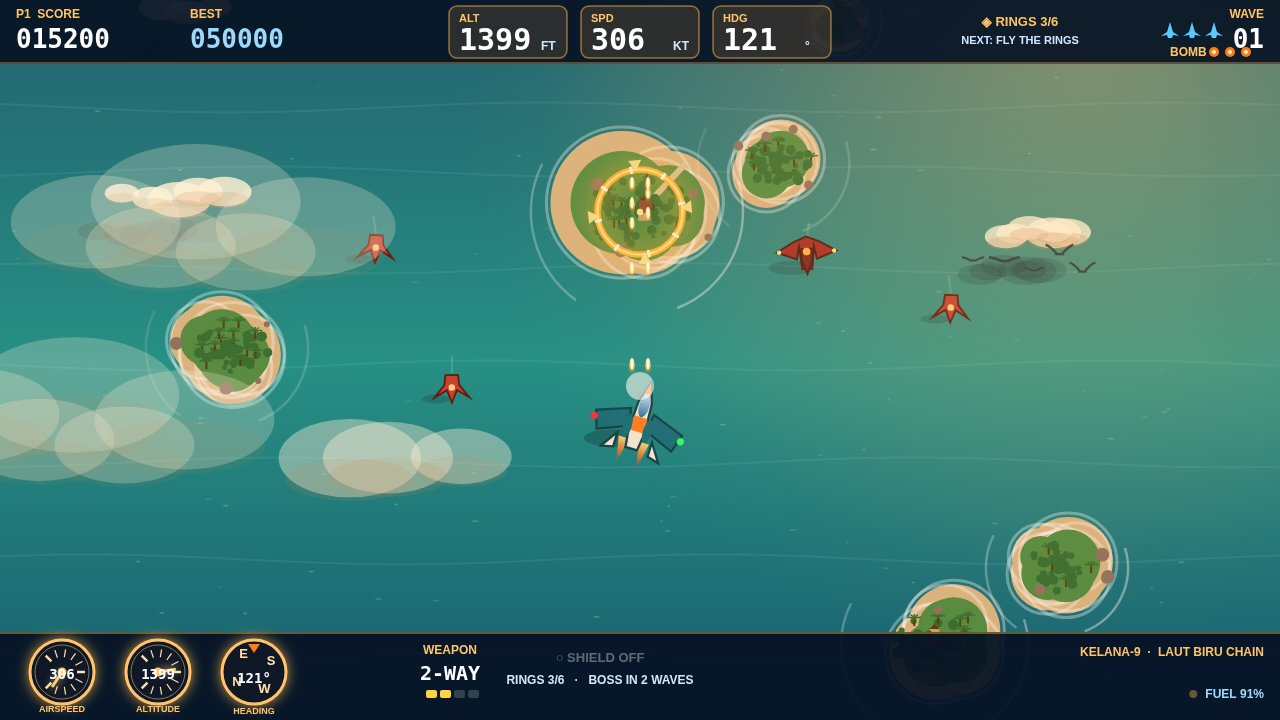
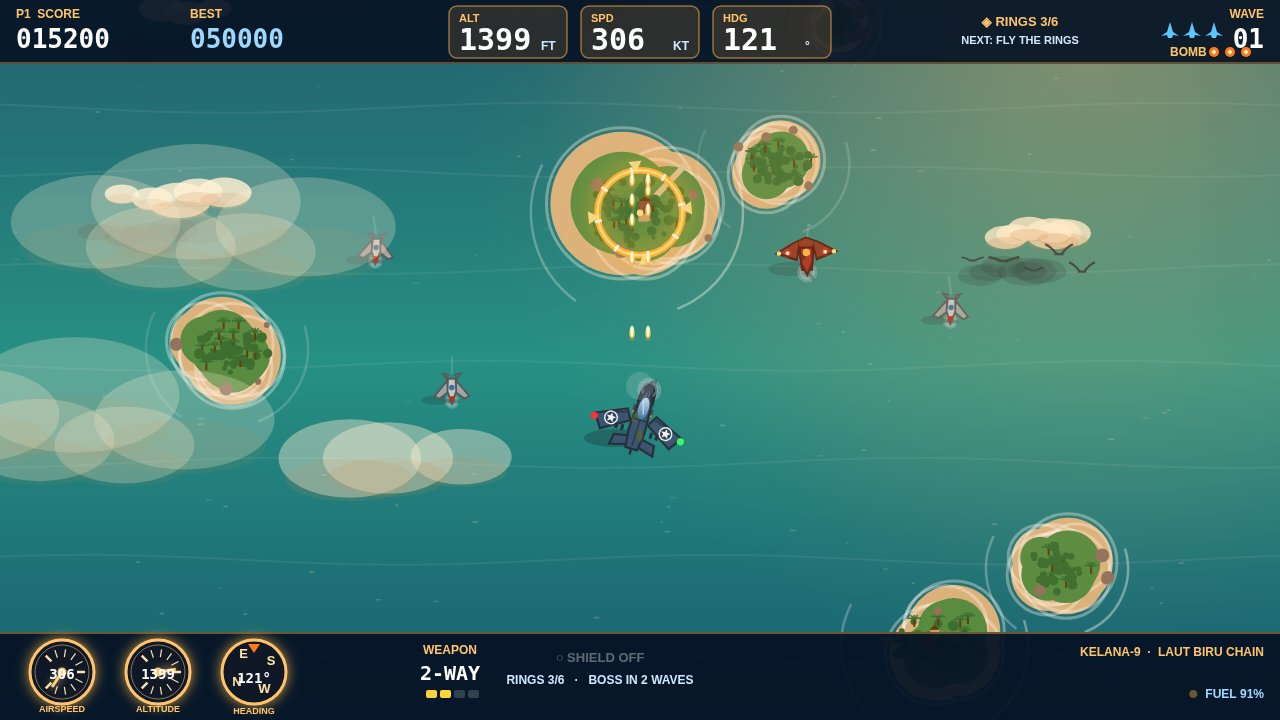
sprite rework: detailed WWII prop aircraft (user revision)

diff --git a/game/src/sprites.js b/game/src/sprites.js
@@ -1,5 +1,8 @@
 // sprites.js — every sprite is drawn in code with canvas vector paths.
-// 100% original art: no copied pixels, no image files. All craft point UP (-y).
+// 100% original art: no copied pixels, no image files. All craft point UP (-y),
+// except the diving scout/fighter/weaver, which point DOWN (+y) toward the player.
+// WWII propeller-fighter style: camo paint, roundels, spinning prop blur discs,
+// panel lines, engine detail. No borrowed text, logos, or artwork.
 import { TAU } from './rng.js';
 
 function poly(ctx, pts, fill, stroke, lw = 1.5) {
@@ -11,7 +14,55 @@ function poly(ctx, pts, fill, stroke, lw = 1.5) {
   if (stroke) { ctx.strokeStyle = stroke; ctx.lineWidth = lw; ctx.stroke(); }
 }
 
-// ---- Player: the Kelana-9 interceptor (teal + cream + orange, twin engines).
+// 5-point star, used inside allied roundels.
+function star5(ctx, x, y, r, fill) {
+  ctx.beginPath();
+  for (let i = 0; i < 10; i++) {
+    const rr = i % 2 === 0 ? r : r * 0.45;
+    const a = -Math.PI / 2 + (i / 10) * TAU;
+    const px = x + Math.cos(a) * rr, py = y + Math.sin(a) * rr;
+    if (i === 0) ctx.moveTo(px, py); else ctx.lineTo(px, py);
+  }
+  ctx.closePath();
+  ctx.fillStyle = fill; ctx.fill();
+}
+
+// Allied roundel: dark blue disc, thin white ring, white star.
+function starRoundel(ctx, x, y, r) {
+  ctx.fillStyle = '#1d3a5f'; ctx.beginPath(); ctx.arc(x, y, r, 0, TAU); ctx.fill();
+  ctx.strokeStyle = '#e8f0f8'; ctx.lineWidth = 1; ctx.beginPath(); ctx.arc(x, y, r, 0, TAU); ctx.stroke();
+  star5(ctx, x, y, r * 0.82, '#f4f8fc');
+}
+
+// Hostile roundel: red disc, cream centre.
+function redRoundel(ctx, x, y, r) {
+  ctx.fillStyle = '#b02a20'; ctx.beginPath(); ctx.arc(x, y, r, 0, TAU); ctx.fill();
+  ctx.fillStyle = '#f2e8d5'; ctx.beginPath(); ctx.arc(x, y, r * 0.45, 0, TAU); ctx.fill();
+}
+
+// Spinning propeller: translucent blur disc + two faint blades rotating with
+// t (deterministic — driven by game time, never wall-clock or Math.random).
+function propDisc(ctx, x, y, r, t, phase = 0) {
+  ctx.fillStyle = 'rgba(205,215,225,0.30)';
+  ctx.beginPath(); ctx.arc(x, y, r, 0, TAU); ctx.fill();
+  ctx.strokeStyle = 'rgba(235,242,248,0.28)';
+  ctx.lineWidth = 1.5;
+  ctx.beginPath(); ctx.arc(x, y, r * 0.62, 0, TAU); ctx.stroke();
+  const a = t * 16 + phase;
+  ctx.save(); ctx.translate(x, y); ctx.rotate(a);
+  ctx.fillStyle = 'rgba(40,48,58,0.35)';
+  ctx.beginPath(); ctx.ellipse(0, -r * 0.55, 1.6, r * 0.55, 0, 0, TAU); ctx.fill();
+  ctx.beginPath(); ctx.ellipse(0, r * 0.55, 1.6, r * 0.55, 0, 0, TAU); ctx.fill();
+  ctx.restore();
+  // Spinner hub.
+  ctx.fillStyle = '#2c343c'; ctx.beginPath(); ctx.arc(x, y, r * 0.22, 0, TAU); ctx.fill();
+}
+
+// ---- Player: the Kelana-9 interceptor, rebuilt as a WWII prop fighter ----
+// Sea-blue Corsair-style single-engine fighter: spinning prop, camo blotches,
+// star roundels, glass canopy, exhaust stubs. Solid parts keep the old extents
+// (x ±30, y -26..+24); only the translucent prop blur reaches ~3 units past
+// the old nose tip (visual only — collision radius and anchor unchanged).
 export function drawPlayer(ctx, x, y, bank, t, shield, thrust) {
   ctx.save();
   ctx.translate(x, y);
@@ -19,44 +70,56 @@ export function drawPlayer(ctx, x, y, bank, t, shield, thrust) {
   ctx.rotate(bank * 0.5 + Math.sin(t * 2.2) * 0.03);
   // 1.5x sprite: the player must read at thumbnail size.
   ctx.scale(1.5, 1.5);
-  // Engine flames.
-  if (thrust > 0.05) {
-    const f = 10 + Math.sin(t * 40) * 4 + thrust * 8;
-    for (const sx of [-7, 7]) {
-      const g = ctx.createLinearGradient(0, 14, 0, 14 + f + 8);
-      g.addColorStop(0, 'rgba(255,220,120,0.95)');
-      g.addColorStop(0.5, 'rgba(255,120,30,0.8)');
-      g.addColorStop(1, 'rgba(255,60,10,0)');
-      ctx.fillStyle = g;
-      ctx.beginPath();
-      ctx.moveTo(sx - 3.5, 14); ctx.lineTo(sx + 3.5, 14);
-      ctx.lineTo(sx, 14 + f + 8); ctx.closePath(); ctx.fill();
+  // Spinning prop blur at the nose (ahead of the spinner).
+  propDisc(ctx, 0, -21, 8, t, 0);
+  // Engine cowling: rounded nose cone + ring.
+  poly(ctx, [[0, -26], [4.5, -20], [5, -12], [-5, -12], [-4.5, -20]], '#22394f', '#12222f');
+  ctx.strokeStyle = '#4a6a86'; ctx.lineWidth = 1.2;
+  ctx.beginPath(); ctx.arc(0, -21, 4.6, 0, TAU); ctx.stroke();
+  // Exhaust stubs + flicker when the throttle is up.
+  for (const sx of [-5.5, 5.5]) {
+    ctx.fillStyle = '#3a4048'; ctx.fillRect(sx - 1.4, -9, 2.8, 4);
+    if (thrust > 0.05) {
+      const f = 2 + Math.sin(t * 34 + sx) * 1.2 + thrust * 2;
+      ctx.fillStyle = 'rgba(255,150,40,0.85)';
+      ctx.beginPath(); ctx.moveTo(sx - 1.6, -5); ctx.lineTo(sx + 1.6, -5); ctx.lineTo(sx, -5 + f); ctx.closePath(); ctx.fill();
     }
   }
-  // Swept main wings.
-  poly(ctx, [[-30, 2], [-8, -6], [-6, 6], [-26, 14]], '#0e6b7a', '#083d47');
-  poly(ctx, [[30, 2], [8, -6], [6, 6], [26, 14]], '#0e6b7a', '#083d47');
+  // Swept main wings (sea blue, darker leading edge, star roundels).
+  poly(ctx, [[-30, 4], [-10, -5], [-6, 2], [-24, 13]], '#2b4f74', '#16283c');
+  poly(ctx, [[30, 4], [10, -5], [6, 2], [24, 13]], '#2b4f74', '#16283c');
+  ctx.strokeStyle = '#1a3248'; ctx.lineWidth = 1;
+  ctx.beginPath(); ctx.moveTo(-28, 3); ctx.lineTo(-9, -3); ctx.stroke();
+  ctx.beginPath(); ctx.moveTo(28, 3); ctx.lineTo(9, -3); ctx.stroke();
+  starRoundel(ctx, -19, 4, 4.2);
+  starRoundel(ctx, 19, 4, 4.2);
   // Wingtip lights.
   ctx.fillStyle = '#ff2a2a'; ctx.beginPath(); ctx.arc(-30, 6, 2.4, 0, TAU); ctx.fill();
   ctx.fillStyle = '#2aff66'; ctx.beginPath(); ctx.arc(30, 6, 2.4, 0, TAU); ctx.fill();
-  // Tail fins.
-  poly(ctx, [[-12, 12], [-20, 24], [-12, 22]], '#f2e8d5', '#083d47');
-  poly(ctx, [[12, 12], [20, 24], [12, 22]], '#f2e8d5', '#083d47');
-  // Fuselage.
-  poly(ctx, [[0, -26], [4.5, -12], [5.5, 8], [4, 20], [-4, 20], [-5.5, 8], [-4.5, -12]], '#f2e8d5', '#083d47');
-  // Orange cheatline.
-  poly(ctx, [[-4.6, -2], [4.6, -2], [5, 8], [-5, 8]], '#ff7b1c');
-  // Canopy (glowing).
-  const cg = ctx.createLinearGradient(0, -18, 0, -2);
+  // Wing guns (small bumps under the wings).
+  for (const sx of [-14, -10, 10, 14]) {
+    ctx.fillStyle = '#16283c'; ctx.fillRect(sx - 1, 6, 2, 4);
+  }
+  // Tail: horizontal stabilizers + edge-on vertical fin.
+  poly(ctx, [[-14, 14], [-4, 12], [-4, 18], [-15, 21]], '#2b4f74', '#16283c');
+  poly(ctx, [[14, 14], [4, 12], [4, 18], [15, 21]], '#2b4f74', '#16283c');
+  ctx.strokeStyle = '#16283c'; ctx.lineWidth = 1.6;
+  ctx.beginPath(); ctx.moveTo(0, 14); ctx.lineTo(0, 24); ctx.stroke();
+  // Fuselage: tapered sea-blue body with olive camo blotches + panel lines.
+  poly(ctx, [[0, -24], [4.5, -12], [5.5, 8], [4, 20], [-4, 20], [-5.5, 8], [-4.5, -12]], '#2b4f74', '#16283c');
+  ctx.fillStyle = 'rgba(74,90,58,0.85)';
+  ctx.beginPath(); ctx.ellipse(-2.5, -2, 2.4, 5, 0.4, 0, TAU); ctx.fill();
+  ctx.beginPath(); ctx.ellipse(2.8, 10, 2, 4, -0.3, 0, TAU); ctx.fill();
+  ctx.strokeStyle = 'rgba(22,40,60,0.7)'; ctx.lineWidth = 1;
+  ctx.beginPath(); ctx.moveTo(0, -22); ctx.lineTo(0, 18); ctx.stroke();
+  ctx.beginPath(); ctx.moveTo(-4.5, 0); ctx.lineTo(4.5, 0); ctx.stroke();
+  // Canopy (glowing glass).
+  const cg = ctx.createLinearGradient(0, -16, 0, 0);
   cg.addColorStop(0, '#bfe8ff'); cg.addColorStop(1, '#2a6ea8');
   ctx.fillStyle = cg;
-  ctx.beginPath(); ctx.ellipse(0, -10, 3.4, 8, 0, 0, TAU); ctx.fill();
-  // Nose tip.
-  poly(ctx, [[0, -26], [2.4, -18], [-2.4, -18]], '#ff7b1c');
-  // Twin engine pods.
-  ctx.fillStyle = '#0e6b7a';
-  ctx.beginPath(); ctx.ellipse(-7, 6, 3, 8, 0, 0, TAU); ctx.fill();
-  ctx.beginPath(); ctx.ellipse(7, 6, 3, 8, 0, 0, TAU); ctx.fill();
+  ctx.beginPath(); ctx.ellipse(0, -8, 3.4, 7.5, 0, 0, TAU); ctx.fill();
+  ctx.strokeStyle = 'rgba(255,255,255,0.5)'; ctx.lineWidth = 1;
+  ctx.beginPath(); ctx.moveTo(-1.5, -13); ctx.lineTo(1, -4); ctx.stroke();
   // Shield bubble.
   if (shield > 0) {
     ctx.strokeStyle = `rgba(90,200,255,${0.5 + 0.3 * Math.sin(t * 6)})`;
@@ -68,81 +131,180 @@ export function drawPlayer(ctx, x, y, bank, t, shield, thrust) {
   ctx.restore();
 }
 
-// ---- Enemies (all original designs, pointing DOWN +y). ----
+// ---- Enemies ----
+// Scout: slim silver-grey dart diving nose-DOWN (+y). Prop at the nose.
 export function drawScout(ctx, x, y, t) {
   ctx.save(); ctx.translate(x, y);
-  poly(ctx, [[0, 14], [4, 4], [14, 10], [6, 0], [5, -8], [-5, -8], [-6, 0], [-14, 10], [-4, 4]], '#c23b2e', '#5c130c');
-  ctx.fillStyle = '#ffd28a'; ctx.beginPath(); ctx.arc(0, 2, 2.6, 0, TAU); ctx.fill();
+  // Spinning prop at the nose (bottom).
+  propDisc(ctx, 0, 12, 6, t, 1.3);
+  // Swept wings.
+  poly(ctx, [[-14, 8], [-4, -4], [-2, 4], [-10, 10]], '#9aa4ab', '#4a545c');
+  poly(ctx, [[14, 8], [4, -4], [2, 4], [10, 10]], '#9aa4ab', '#4a545c');
+  // Slim fuselage, nose down.
+  poly(ctx, [[0, 14], [3.5, 4], [3, -6], [-3, -6], [-3.5, 4]], '#c3c9ce', '#4a545c');
+  // Red nose band + spinner.
+  poly(ctx, [[0, 14], [3, 8], [-3, 8]], '#b02a20');
+  // Canopy dot.
+  ctx.fillStyle = '#2a6ea8'; ctx.beginPath(); ctx.arc(0, 1, 2.2, 0, TAU); ctx.fill();
+  // Tail fins (top).
+  poly(ctx, [[-4, -6], [-7, -10], [-3, -9]], '#9aa4ab', '#4a545c');
+  poly(ctx, [[4, -6], [7, -10], [3, -9]], '#9aa4ab', '#4a545c');
   ctx.restore();
 }
+// Fighter: rust-red camo mid fighter diving nose-DOWN (+y).
 export function drawFighter(ctx, x, y, t) {
   ctx.save(); ctx.translate(x, y);
-  poly(ctx, [[-24, -2], [-8, 4], [-6, -6], [-4, 12], [4, 12], [6, -6], [8, 4], [24, -2], [10, -10], [0, -14], [-10, -10]], '#a3271e', '#4a0f0a');
-  poly(ctx, [[0, 16], [4, 6], [5, -4], [-5, -4], [-4, 6]], '#7a1d15', '#4a0f0a');
+  // Spinning prop at the nose (bottom).
+  propDisc(ctx, 0, 14, 8, t, 2.1);
+  // Wings with red roundels.
+  poly(ctx, [[-24, -2], [-8, 4], [-6, -6], [-4, 12], [4, 12], [6, -6], [8, 4], [24, -2], [10, -10], [0, -14], [-10, -10]], '#8a2f1d', '#4a0f0a');
+  redRoundel(ctx, -15, -2, 3.5);
+  redRoundel(ctx, 15, -2, 3.5);
+  ctx.strokeStyle = 'rgba(74,15,10,0.8)'; ctx.lineWidth = 1;
+  ctx.beginPath(); ctx.moveTo(-22, -2); ctx.lineTo(-8, 3); ctx.stroke();
+  ctx.beginPath(); ctx.moveTo(22, -2); ctx.lineTo(8, 3); ctx.stroke();
+  // Fuselage, nose down.
+  poly(ctx, [[0, 16], [4.5, 6], [5, -6], [-5, -6], [-4.5, 6]], '#a3271e', '#4a0f0a');
+  ctx.fillStyle = 'rgba(92,31,18,0.9)';
+  ctx.beginPath(); ctx.ellipse(-2, 0, 1.8, 4, 0.3, 0, TAU); ctx.fill();
+  // Canopy (glowing).
   ctx.fillStyle = '#ffb347'; ctx.beginPath(); ctx.arc(0, -2, 3, 0, TAU); ctx.fill();
+  // Wingtip lights.
   ctx.fillStyle = '#ffe08a'; ctx.beginPath(); ctx.arc(-22, -2, 1.8, 0, TAU); ctx.fill();
   ctx.beginPath(); ctx.arc(22, -2, 1.8, 0, TAU); ctx.fill();
   ctx.restore();
 }
+// Weaver: mustard-orange dart diving nose-DOWN (+y), wobbles as before.
 export function drawWeaver(ctx, x, y, t) {
   ctx.save(); ctx.translate(x, y); ctx.rotate(Math.sin(t * 3) * 0.15);
-  poly(ctx, [[0, 16], [16, -8], [6, -10], [0, -4], [-6, -10], [-16, -8]], '#e07b1c', '#6b3405');
+  // Spinning prop at the nose (bottom).
+  propDisc(ctx, 0, 13, 6.5, t, 0.7);
+  // Swept-back wings.
+  poly(ctx, [[0, 16], [16, -8], [6, -10], [0, -4], [-6, -10], [-16, -8]], '#d88f1a', '#6b3405');
+  ctx.strokeStyle = 'rgba(107,52,5,0.8)'; ctx.lineWidth = 1;
+  ctx.beginPath(); ctx.moveTo(-14, -6); ctx.lineTo(-4, -2); ctx.stroke();
+  ctx.beginPath(); ctx.moveTo(14, -6); ctx.lineTo(4, -2); ctx.stroke();
+  // Fuselage, nose down, yellow nose band.
   poly(ctx, [[0, 16], [5, 2], [0, -6], [-5, 2]], '#8a4a2f');
+  poly(ctx, [[0, 16], [3.4, 9], [-3.4, 9]], '#ffd23e');
   ctx.fillStyle = '#fff2c0'; ctx.beginPath(); ctx.arc(0, 0, 2.4, 0, TAU); ctx.fill();
   ctx.restore();
 }
+// Bomber: olive-drab twin-engine heavy bomber, nose UP (-y, same as before).
+// Two prop discs on the wing leading edge, glass nose, turrets, roundels.
 export function drawBomber(ctx, x, y, t) {
   ctx.save(); ctx.translate(x, y);
-  // Twin props (spinning blur discs).
-  ctx.fillStyle = 'rgba(200,210,220,0.35)';
-  ctx.beginPath(); ctx.arc(-20, -2, 9, 0, TAU); ctx.fill();
-  ctx.beginPath(); ctx.arc(20, -2, 9, 0, TAU); ctx.fill();
-  // Wings.
+  // Engine nacelles (rounded pods on the wing).
+  for (const sx of [-20, 20]) {
+    ctx.fillStyle = '#5c6b4a';
+    ctx.beginPath(); ctx.ellipse(sx, -2, 5.5, 9, 0, 0, TAU); ctx.fill();
+    ctx.strokeStyle = '#2c3620'; ctx.lineWidth = 1.2;
+    ctx.beginPath(); ctx.ellipse(sx, -2, 5.5, 9, 0, 0, TAU); ctx.stroke();
+  }
+  // Twin props (spinning blur discs) ahead of the nacelles.
+  propDisc(ctx, -20, -2, 9, t, 0);
+  propDisc(ctx, 20, -2, 9, t, Math.PI);
+  // Wings with panel lines + roundels.
   poly(ctx, [[-38, -4], [-6, -10], [-4, 0], [-38, 6]], '#5c6b4a', '#2c3620');
   poly(ctx, [[38, -4], [6, -10], [4, 0], [38, 6]], '#5c6b4a', '#2c3620');
-  // Fuselage.
+  ctx.strokeStyle = 'rgba(44,54,32,0.8)'; ctx.lineWidth = 1;
+  ctx.beginPath(); ctx.moveTo(-36, -2); ctx.lineTo(-8, -6); ctx.stroke();
+  ctx.beginPath(); ctx.moveTo(36, -2); ctx.lineTo(8, -6); ctx.stroke();
+  redRoundel(ctx, -22, 0, 3.4);
+  redRoundel(ctx, 22, 0, 3.4);
+  // Fuselage with camo blotches + panel lines.
   poly(ctx, [[0, -18], [8, -8], [9, 12], [6, 22], [-6, 22], [-9, 12], [-8, -8]], '#7a8a5a', '#2c3620');
-  // Nose turret + tail.
-  ctx.fillStyle = '#2c3620'; ctx.beginPath(); ctx.arc(0, -14, 3.4, 0, TAU); ctx.fill();
+  ctx.fillStyle = 'rgba(92,107,74,0.9)';
+  ctx.beginPath(); ctx.ellipse(-4, 2, 3, 6, 0.3, 0, TAU); ctx.fill();
+  ctx.beginPath(); ctx.ellipse(4.5, 12, 2.4, 4, -0.3, 0, TAU); ctx.fill();
+  ctx.strokeStyle = 'rgba(44,54,32,0.7)'; ctx.lineWidth = 1;
+  ctx.beginPath(); ctx.moveTo(0, -16); ctx.lineTo(0, 20); ctx.stroke();
+  // Glass nose (blue gradient) at the front (top).
+  const ng = ctx.createLinearGradient(0, -18, 0, -8);
+  ng.addColorStop(0, '#bfe8ff'); ng.addColorStop(1, '#2a6ea8');
+  ctx.fillStyle = ng;
+  ctx.beginPath(); ctx.ellipse(0, -13, 4.5, 5, 0, 0, TAU); ctx.fill();
+  // Dorsal turret + tail fins.
+  ctx.fillStyle = '#2c3620'; ctx.beginPath(); ctx.arc(0, 2, 3.4, 0, TAU); ctx.fill();
+  ctx.fillStyle = '#5c6b4a';
   poly(ctx, [[-10, 20], [-16, 30], [-8, 28]], '#5c6b4a', '#2c3620');
   poly(ctx, [[10, 20], [16, 30], [8, 28]], '#5c6b4a', '#2c3620');
-  // Roundels.
-  for (const sx of [-22, 22]) {
-    ctx.fillStyle = '#c23b2e'; ctx.beginPath(); ctx.arc(sx, 0, 3.4, 0, TAU); ctx.fill();
-    ctx.fillStyle = '#f2e8d5'; ctx.beginPath(); ctx.arc(sx, 0, 1.6, 0, TAU); ctx.fill();
-  }
   ctx.restore();
 }
+// Gunboat: a WWII patrol warship (it sits on the water — a boat, not a plane).
+// Detailed grey-camo hull, two turrets (front one rotates as before), stack, wake.
 export function drawGunboat(ctx, x, y, t) {
   ctx.save(); ctx.translate(x, y);
   // Wake.
   ctx.strokeStyle = 'rgba(255,255,255,0.5)'; ctx.lineWidth = 2;
   ctx.beginPath(); ctx.moveTo(-8, 12); ctx.lineTo(-14, 24); ctx.moveTo(8, 12); ctx.lineTo(14, 24); ctx.stroke();
-  poly(ctx, [[0, -12], [7, -4], [9, 10], [0, 14], [-9, 10], [-7, -4]], '#6b7280', '#2c313a');
-  ctx.fillStyle = '#9aa4ab'; ctx.fillRect(-4, -6, 8, 10);
-  // Turret (rotates slowly).
+  // Hull (bow up, stern down) with camo blotches.
+  poly(ctx, [[0, -14], [7, -6], [9, 10], [5, 16], [-5, 16], [-9, 10], [-7, -6]], '#5a636b', '#2c313a');
+  ctx.fillStyle = 'rgba(58,64,72,0.9)';
+  ctx.beginPath(); ctx.ellipse(-3, 2, 2.5, 5, 0.3, 0, TAU); ctx.fill();
+  ctx.beginPath(); ctx.ellipse(3.5, 9, 2, 3.5, -0.3, 0, TAU); ctx.fill();
+  // Deck + bridge.
+  ctx.fillStyle = '#7d8891'; ctx.fillRect(-4, -8, 8, 12);
+  ctx.fillStyle = '#9aa4ab'; ctx.fillRect(-3, -12, 6, 5);
+  // Smokestack.
+  ctx.fillStyle = '#3a4048'; ctx.fillRect(-2, 4, 4, 5);
+  ctx.fillStyle = '#6b7280'; ctx.fillRect(-2, 4, 4, 1.5);
+  // Rear turret (fixed).
+  ctx.fillStyle = '#3a4048'; ctx.beginPath(); ctx.arc(0, 12, 3.5, 0, TAU); ctx.fill();
+  ctx.fillRect(-1, 12, 2, 5);
+  // Front turret (rotates slowly, as before).
   ctx.save(); ctx.translate(0, -2); ctx.rotate(Math.sin(t * 0.8) * 0.5);
   ctx.fillStyle = '#3a4048'; ctx.beginPath(); ctx.arc(0, 0, 4.5, 0, TAU); ctx.fill();
   ctx.fillRect(-1, -12, 2, 12);
   ctx.restore();
   ctx.restore();
 }
-// ---- Boss: the Benteng Terbang flying fortress.
+// ---- Boss: the Benteng Terbang flying fortress, rebuilt as a huge
+// multi-engine bomber (nose UP, as before). Four props, turrets, camo,
+// roundels, battle damage. Extents unchanged: x ±96, y -34..+44.
 export function drawBoss(ctx, x, y, t, hpFrac) {
   ctx.save(); ctx.translate(x, y);
+  // Engine nacelles (four rounded pods on the wing).
+  for (const sx of [-58, -20, 20, 58]) {
+    ctx.fillStyle = '#4a3a2c';
+    ctx.beginPath(); ctx.ellipse(sx, -6, 6.5, 10, 0, 0, TAU); ctx.fill();
+    ctx.strokeStyle = '#200f0f'; ctx.lineWidth = 1.2;
+    ctx.beginPath(); ctx.ellipse(sx, -6, 6.5, 10, 0, 0, TAU); ctx.stroke();
+  }
   // Four prop blur discs.
-  ctx.fillStyle = 'rgba(200,210,220,0.3)';
-  for (const sx of [-58, -20, 20, 58]) { ctx.beginPath(); ctx.arc(sx, -6, 11, 0, TAU); ctx.fill(); }
-  // Main wing.
+  propDisc(ctx, -58, -6, 11, t, 0);
+  propDisc(ctx, -20, -6, 11, t, Math.PI / 2);
+  propDisc(ctx, 20, -6, 11, t, Math.PI);
+  propDisc(ctx, 58, -6, 11, t, Math.PI * 1.5);
+  // Main wing with panel lines + gold trim + roundels.
   poly(ctx, [[-96, -8], [-10, -18], [-8, 2], [-96, 10]], '#4a2c2c', '#200f0f');
   poly(ctx, [[96, -8], [10, -18], [8, 2], [96, 10]], '#4a2c2c', '#200f0f');
+  ctx.strokeStyle = 'rgba(32,15,15,0.7)'; ctx.lineWidth = 1;
+  ctx.beginPath(); ctx.moveTo(-92, -5); ctx.lineTo(-12, -14); ctx.stroke();
+  ctx.beginPath(); ctx.moveTo(92, -5); ctx.lineTo(12, -14); ctx.stroke();
+  ctx.beginPath(); ctx.moveTo(-92, 6); ctx.lineTo(-12, -1); ctx.stroke();
+  ctx.beginPath(); ctx.moveTo(92, 6); ctx.lineTo(12, -1); ctx.stroke();
   // Gold trim.
   ctx.strokeStyle = '#ffb347'; ctx.lineWidth = 2;
   ctx.beginPath(); ctx.moveTo(-96, -4); ctx.lineTo(-10, -14); ctx.stroke();
   ctx.beginPath(); ctx.moveTo(96, -4); ctx.lineTo(10, -14); ctx.stroke();
-  // Hull.
+  redRoundel(ctx, -72, -2, 6);
+  redRoundel(ctx, 72, -2, 6);
+  // Hull with camo blotches + panel lines.
   poly(ctx, [[0, -34], [16, -18], [18, 22], [10, 44], [-10, 44], [-18, 22], [-16, -18]], '#6b2a20', '#200f0f');
+  ctx.fillStyle = 'rgba(107,90,66,0.85)';
+  ctx.beginPath(); ctx.ellipse(-8, -2, 5, 10, 0.3, 0, TAU); ctx.fill();
+  ctx.beginPath(); ctx.ellipse(8, 16, 4, 8, -0.3, 0, TAU); ctx.fill();
+  ctx.strokeStyle = 'rgba(32,15,15,0.7)'; ctx.lineWidth = 1;
+  ctx.beginPath(); ctx.moveTo(0, -30); ctx.lineTo(0, 40); ctx.stroke();
+  ctx.beginPath(); ctx.moveTo(-14, -10); ctx.lineTo(14, -10); ctx.stroke();
+  ctx.beginPath(); ctx.moveTo(-16, 14); ctx.lineTo(16, 14); ctx.stroke();
   poly(ctx, [[0, -34], [8, -18], [8, 22], [-8, 22], [-8, -18]], '#8a3a2c');
+  // Glass nose (front, top).
+  const ng = ctx.createLinearGradient(0, -34, 0, -20);
+  ng.addColorStop(0, '#bfe8ff'); ng.addColorStop(1, '#2a6ea8');
+  ctx.fillStyle = ng;
+  ctx.beginPath(); ctx.ellipse(0, -27, 5, 7, 0, 0, TAU); ctx.fill();
   // Nose + tail guns.
   ctx.fillStyle = '#200f0f'; ctx.beginPath(); ctx.arc(0, -30, 5, 0, TAU); ctx.fill();
   ctx.fillStyle = '#ffb347'; ctx.beginPath(); ctx.arc(0, -30, 2, 0, TAU); ctx.fill();
@@ -158,6 +320,15 @@ export function drawBoss(ctx, x, y, t, hpFrac) {
   const bg = ctx.createLinearGradient(0, -20, 0, 0);
   bg.addColorStop(0, '#bfe8ff'); bg.addColorStop(1, '#2a6ea8');
   ctx.fillStyle = bg; ctx.beginPath(); ctx.ellipse(0, -8, 6, 10, 0, 0, TAU); ctx.fill();
+  ctx.strokeStyle = 'rgba(255,255,255,0.5)'; ctx.lineWidth = 1;
+  ctx.beginPath(); ctx.moveTo(-2, -16); ctx.lineTo(2, -2); ctx.stroke();
+  // Battle damage: scorch marks once the hull is hurt.
+  if (hpFrac < 0.66) {
+    ctx.fillStyle = `rgba(20,12,8,${0.35 * (1 - hpFrac) + 0.15})`;
+    ctx.beginPath(); ctx.ellipse(-40, 12, 9, 5, 0.4, 0, TAU); ctx.fill();
+    ctx.beginPath(); ctx.ellipse(34, -14, 7, 4, -0.3, 0, TAU); ctx.fill();
+    ctx.beginPath(); ctx.ellipse(6, 30, 6, 4, 0, 0, TAU); ctx.fill();
+  }
   // Damage smoke when hurt.
   if (hpFrac < 0.5) {
     ctx.fillStyle = `rgba(60,60,60,${0.5 * (1 - hpFrac)})`;
